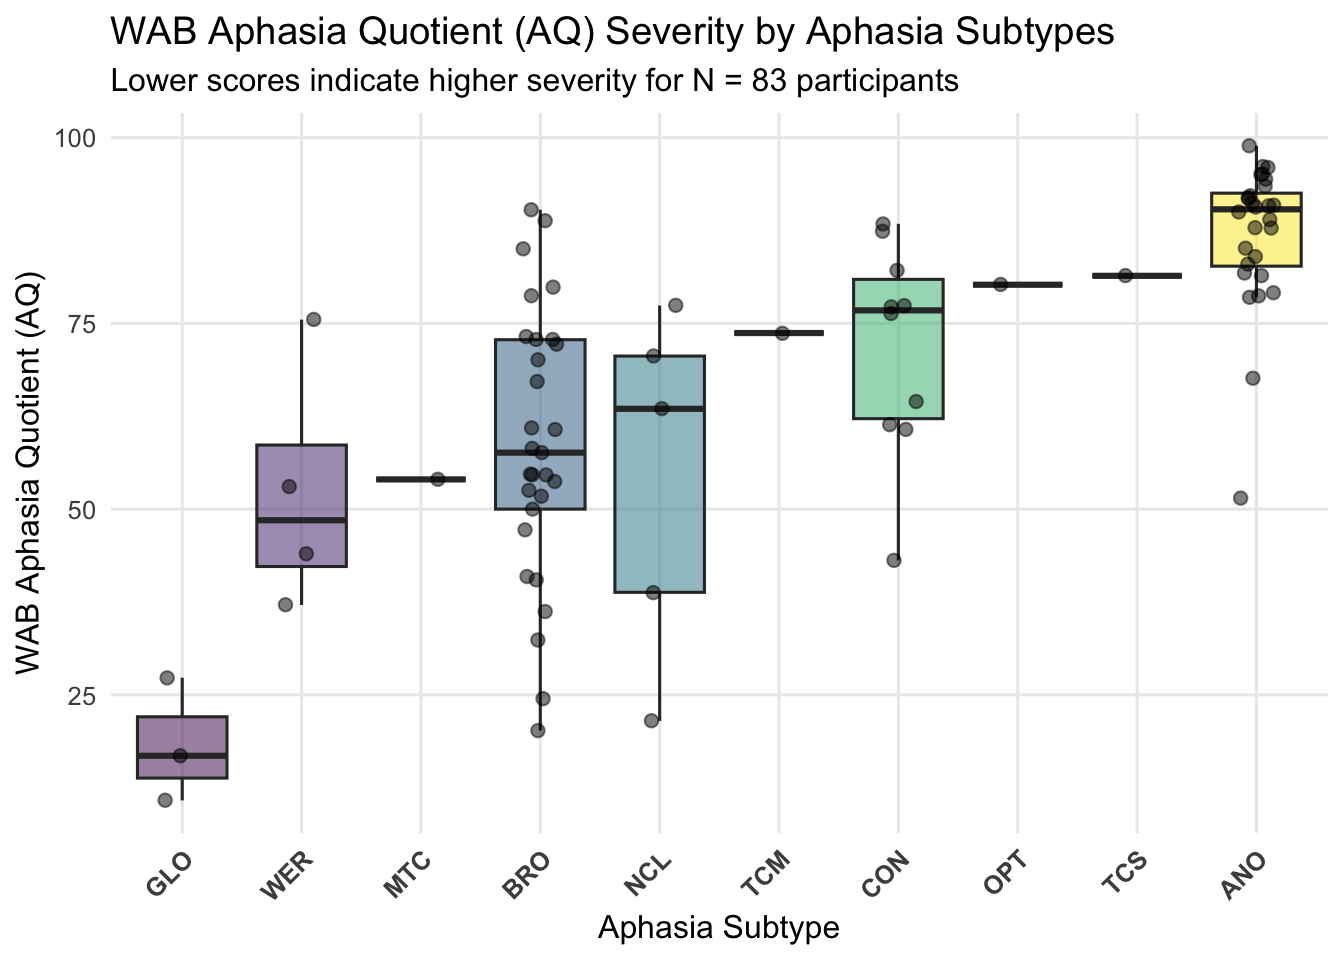
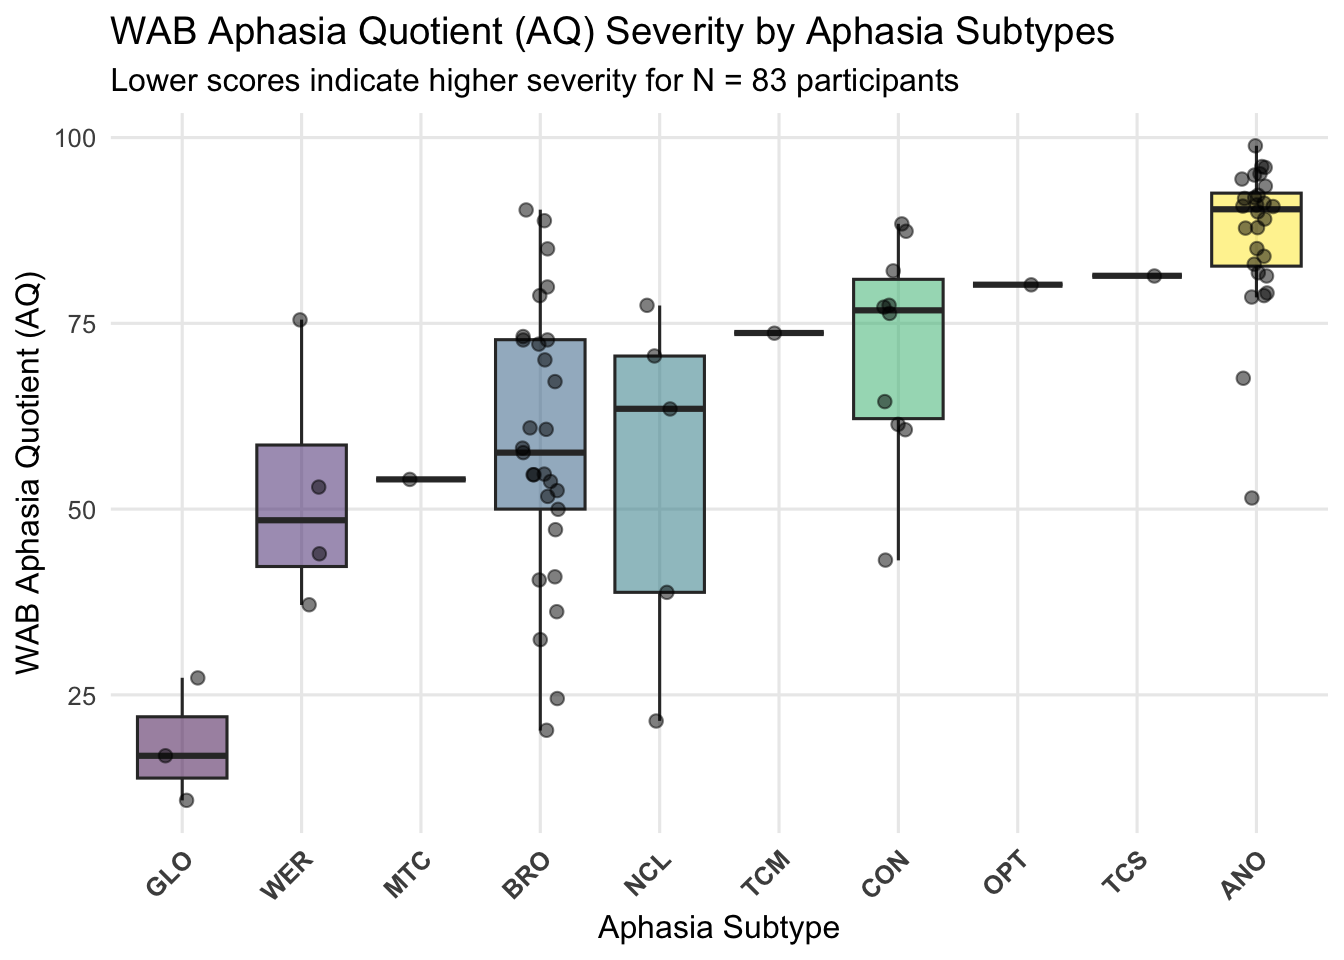
updating fp2 submission - attempt 3
just warning/message fixes

diff --git a/fp2_yeshe.html b/fp2_yeshe.html
@@ -21,6 +21,41 @@ ul.task-list li input[type="checkbox"] {
   margin: 0 0.8em 0.2em -1em; /* quarto-specific, see https://github.com/quarto-dev/quarto-cli/issues/4556 */ 
   vertical-align: middle;
 }
+/* CSS for syntax highlighting */
+html { -webkit-text-size-adjust: 100%; }
+pre > code.sourceCode { white-space: pre; position: relative; }
+pre > code.sourceCode > span { display: inline-block; line-height: 1.25; }
+pre > code.sourceCode > span:empty { height: 1.2em; }
+.sourceCode { overflow: visible; }
+code.sourceCode > span { color: inherit; text-decoration: inherit; }
+div.sourceCode { margin: 1em 0; }
+pre.sourceCode { margin: 0; }
+@media screen {
+div.sourceCode { overflow: auto; }
+}
+@media print {
+pre > code.sourceCode { white-space: pre-wrap; }
+pre > code.sourceCode > span { text-indent: -5em; padding-left: 5em; }
+}
+pre.numberSource code
+  { counter-reset: source-line 0; }
+pre.numberSource code > span
+  { position: relative; left: -4em; counter-increment: source-line; }
+pre.numberSource code > span > a:first-child::before
+  { content: counter(source-line);
+    position: relative; left: -1em; text-align: right; vertical-align: baseline;
+    border: none; display: inline-block;
+    -webkit-touch-callout: none; -webkit-user-select: none;
+    -khtml-user-select: none; -moz-user-select: none;
+    -ms-user-select: none; user-select: none;
+    padding: 0 4px; width: 4em;
+  }
+pre.numberSource { margin-left: 3em;  padding-left: 4px; }
+div.sourceCode
+  {   }
+@media screen {
+pre > code.sourceCode > span > a:first-child::before { text-decoration: underline; }
+}
 </style>
 
 
@@ -71,9 +106,62 @@ ul.task-list li input[type="checkbox"] {
 </header>
 
 
+<div class="cell">
+<div class="code-copy-outer-scaffold"><div class="sourceCode cell-code" id="cb1"><pre class="sourceCode r code-with-copy"><code class="sourceCode r"><span id="cb1-1"><a href="#cb1-1" aria-hidden="true" tabindex="-1"></a><span class="co"># load in packages and files</span></span>
+<span id="cb1-2"><a href="#cb1-2" aria-hidden="true" tabindex="-1"></a><span class="fu">library</span>(readxl)</span>
+<span id="cb1-3"><a href="#cb1-3" aria-hidden="true" tabindex="-1"></a><span class="fu">library</span>(tidyverse)</span>
+<span id="cb1-4"><a href="#cb1-4" aria-hidden="true" tabindex="-1"></a><span class="fu">library</span>(dplyr)</span>
+<span id="cb1-5"><a href="#cb1-5" aria-hidden="true" tabindex="-1"></a><span class="fu">library</span>(ggplot2)</span>
+<span id="cb1-6"><a href="#cb1-6" aria-hidden="true" tabindex="-1"></a><span class="fu">library</span>(stringr)</span>
+<span id="cb1-7"><a href="#cb1-7" aria-hidden="true" tabindex="-1"></a></span>
+<span id="cb1-8"><a href="#cb1-8" aria-hidden="true" tabindex="-1"></a><span class="co"># load in datasets</span></span>
+<span id="cb1-9"><a href="#cb1-9" aria-hidden="true" tabindex="-1"></a>demo_data <span class="ot">&lt;-</span> <span class="fu">read_excel</span>(<span class="st">"demo-data.xlsx"</span>, <span class="at">sheet =</span> <span class="st">"Time 1"</span>)</span>
+<span id="cb1-10"><a href="#cb1-10" aria-hidden="true" tabindex="-1"></a>eng_results <span class="ot">&lt;-</span> <span class="fu">read_excel</span>(<span class="st">"english-results-data.xlsx"</span>, <span class="at">sheet =</span> <span class="st">"Time 1"</span>)</span></code></pre></div><button title="Copy to Clipboard" class="code-copy-button"><i class="bi"></i></button></div>
+</div>
+<div class="cell">
+<div class="code-copy-outer-scaffold"><div class="sourceCode cell-code" id="cb2"><pre class="sourceCode r code-with-copy"><code class="sourceCode r"><span id="cb2-1"><a href="#cb2-1" aria-hidden="true" tabindex="-1"></a><span class="co"># clean demo data</span></span>
+<span id="cb2-2"><a href="#cb2-2" aria-hidden="true" tabindex="-1"></a>demo_clean <span class="ot">&lt;-</span> demo_data <span class="sc">%&gt;%</span></span>
+<span id="cb2-3"><a href="#cb2-3" aria-hidden="true" tabindex="-1"></a>  <span class="fu">rename</span>(</span>
+<span id="cb2-4"><a href="#cb2-4" aria-hidden="true" tabindex="-1"></a>    <span class="at">aphasia_type   =</span> <span class="st">`</span><span class="at">Aphasia Type --Clin Impression -- Boston</span><span class="st">`</span>,</span>
+<span id="cb2-5"><a href="#cb2-5" aria-hidden="true" tabindex="-1"></a>    <span class="at">aphasia_cat    =</span> <span class="st">`</span><span class="at">Aphasia Category -- Clin Impression</span><span class="st">`</span>,</span>
+<span id="cb2-6"><a href="#cb2-6" aria-hidden="true" tabindex="-1"></a>    <span class="at">lesion_side    =</span> <span class="st">`</span><span class="at">Lesion Side</span><span class="st">`</span>,</span>
+<span id="cb2-7"><a href="#cb2-7" aria-hidden="true" tabindex="-1"></a>    <span class="at">lesion_loc_raw =</span> <span class="st">`</span><span class="at">Lesion Location</span><span class="st">`</span></span>
+<span id="cb2-8"><a href="#cb2-8" aria-hidden="true" tabindex="-1"></a>  ) <span class="sc">%&gt;%</span></span>
+<span id="cb2-9"><a href="#cb2-9" aria-hidden="true" tabindex="-1"></a>  <span class="fu">filter</span>(<span class="sc">!</span><span class="fu">is.na</span>(lesion_loc_raw), <span class="sc">!</span>lesion_loc_raw <span class="sc">%in%</span> <span class="fu">c</span>(<span class="st">"U"</span>, <span class="st">"NA"</span>, <span class="st">"unavailable"</span>, <span class="st">"not applicable"</span>, <span class="st">""</span>)) <span class="sc">%&gt;%</span></span>
+<span id="cb2-10"><a href="#cb2-10" aria-hidden="true" tabindex="-1"></a>  <span class="fu">filter</span>(<span class="sc">!</span><span class="fu">is.na</span>(aphasia_type), <span class="sc">!</span>aphasia_type <span class="sc">%in%</span> <span class="fu">c</span>(<span class="st">"U"</span>, <span class="st">"NA"</span>, <span class="st">"unavailable"</span>, <span class="st">"not applicable"</span>, <span class="st">"non-classifiable"</span>))</span>
+<span id="cb2-11"><a href="#cb2-11" aria-hidden="true" tabindex="-1"></a></span>
+<span id="cb2-12"><a href="#cb2-12" aria-hidden="true" tabindex="-1"></a></span>
+<span id="cb2-13"><a href="#cb2-13" aria-hidden="true" tabindex="-1"></a><span class="co"># clean results data</span></span>
+<span id="cb2-14"><a href="#cb2-14" aria-hidden="true" tabindex="-1"></a>eng_clean <span class="ot">&lt;-</span> eng_results <span class="sc">%&gt;%</span></span>
+<span id="cb2-15"><a href="#cb2-15" aria-hidden="true" tabindex="-1"></a>  <span class="fu">rename</span>(<span class="at">wab_aq         =</span> <span class="st">`</span><span class="at">WAB         AQ</span><span class="sc">\r\n</span><span class="at">Note: for Baycrest and NEURAL corpora, WAB scores are from Bedside WAB</span><span class="st">`</span>) <span class="sc">%&gt;%</span></span>
+<span id="cb2-16"><a href="#cb2-16" aria-hidden="true" tabindex="-1"></a>  <span class="fu">mutate</span>(<span class="at">wab_aq =</span> <span class="fu">as.numeric</span>(wab_aq)) <span class="sc">%&gt;%</span></span>
+<span id="cb2-17"><a href="#cb2-17" aria-hidden="true" tabindex="-1"></a>  <span class="fu">filter</span>(<span class="sc">!</span><span class="fu">is.na</span>(wab_aq))</span>
+<span id="cb2-18"><a href="#cb2-18" aria-hidden="true" tabindex="-1"></a></span>
+<span id="cb2-19"><a href="#cb2-19" aria-hidden="true" tabindex="-1"></a><span class="co"># merge demo &amp; results datasets</span></span>
+<span id="cb2-20"><a href="#cb2-20" aria-hidden="true" tabindex="-1"></a>demo_results_merged <span class="ot">&lt;-</span> demo_clean <span class="sc">%&gt;%</span></span>
+<span id="cb2-21"><a href="#cb2-21" aria-hidden="true" tabindex="-1"></a>  <span class="fu">inner_join</span>(eng_clean, <span class="at">by =</span> <span class="st">"Participant ID"</span>) <span class="sc">%&gt;%</span> </span>
+<span id="cb2-22"><a href="#cb2-22" aria-hidden="true" tabindex="-1"></a>  <span class="fu">mutate</span>(<span class="at">aphasia_type =</span> <span class="fu">fct_reorder</span>(aphasia_type, wab_aq, <span class="at">.fun =</span> median, <span class="at">na.rm =</span> <span class="cn">TRUE</span>))</span></code></pre></div><button title="Copy to Clipboard" class="code-copy-button"><i class="bi"></i></button></div>
+</div>
 <section id="visuals" class="level3">
 <h3 class="anchored" data-anchor-id="visuals">Visuals</h3>
 <div class="cell">
+<div class="code-copy-outer-scaffold"><div class="sourceCode cell-code" id="cb3"><pre class="sourceCode r code-with-copy"><code class="sourceCode r"><span id="cb3-1"><a href="#cb3-1" aria-hidden="true" tabindex="-1"></a><span class="fu">ggplot</span>(demo_results_merged, <span class="fu">aes</span>(<span class="at">x =</span> aphasia_type, <span class="at">y =</span> wab_aq, <span class="at">fill =</span> aphasia_type)) <span class="sc">+</span></span>
+<span id="cb3-2"><a href="#cb3-2" aria-hidden="true" tabindex="-1"></a>  <span class="fu">geom_boxplot</span>(<span class="at">alpha =</span> <span class="fl">0.5</span>, <span class="at">outlier.shape =</span> <span class="cn">NA</span>) <span class="sc">+</span></span>
+<span id="cb3-3"><a href="#cb3-3" aria-hidden="true" tabindex="-1"></a>  <span class="fu">geom_jitter</span>(<span class="at">width =</span> <span class="fl">0.15</span>, <span class="at">alpha =</span> <span class="fl">0.5</span>, <span class="at">size =</span> <span class="dv">2</span>) <span class="sc">+</span></span>
+<span id="cb3-4"><a href="#cb3-4" aria-hidden="true" tabindex="-1"></a>  <span class="fu">theme_minimal</span>(<span class="at">base_size =</span> <span class="dv">12</span>) <span class="sc">+</span></span>
+<span id="cb3-5"><a href="#cb3-5" aria-hidden="true" tabindex="-1"></a>  <span class="fu">scale_fill_viridis_d</span>(<span class="at">option =</span> <span class="st">"viridis"</span>) <span class="sc">+</span> </span>
+<span id="cb3-6"><a href="#cb3-6" aria-hidden="true" tabindex="-1"></a>  <span class="fu">labs</span>(</span>
+<span id="cb3-7"><a href="#cb3-7" aria-hidden="true" tabindex="-1"></a>    <span class="at">title =</span> <span class="st">"WAB Aphasia Quotient (AQ) Severity by Aphasia Subtypes"</span>,</span>
+<span id="cb3-8"><a href="#cb3-8" aria-hidden="true" tabindex="-1"></a>    <span class="at">subtitle =</span> <span class="fu">paste0</span>(<span class="st">"Lower scores indicate higher severity for "</span>, <span class="st">"N = "</span>, <span class="fu">nrow</span>(demo_results_merged), <span class="st">" participants"</span>),</span>
+<span id="cb3-9"><a href="#cb3-9" aria-hidden="true" tabindex="-1"></a>    <span class="at">x =</span> <span class="st">"Aphasia Subtype"</span>,</span>
+<span id="cb3-10"><a href="#cb3-10" aria-hidden="true" tabindex="-1"></a>    <span class="at">y =</span> <span class="st">"WAB Aphasia Quotient (AQ)"</span>,</span>
+<span id="cb3-11"><a href="#cb3-11" aria-hidden="true" tabindex="-1"></a>    <span class="at">fill =</span> <span class="st">"Aphasia Type"</span></span>
+<span id="cb3-12"><a href="#cb3-12" aria-hidden="true" tabindex="-1"></a>  ) <span class="sc">+</span></span>
+<span id="cb3-13"><a href="#cb3-13" aria-hidden="true" tabindex="-1"></a>  <span class="fu">theme</span>(</span>
+<span id="cb3-14"><a href="#cb3-14" aria-hidden="true" tabindex="-1"></a>    <span class="at">legend.position =</span> <span class="st">"none"</span>,</span>
+<span id="cb3-15"><a href="#cb3-15" aria-hidden="true" tabindex="-1"></a>    <span class="at">axis.text.x =</span> <span class="fu">element_text</span>(<span class="at">angle =</span> <span class="dv">45</span>, <span class="at">hjust =</span> <span class="dv">1</span>, <span class="at">face =</span> <span class="st">"bold"</span>),</span>
+<span id="cb3-16"><a href="#cb3-16" aria-hidden="true" tabindex="-1"></a>    <span class="at">panel.grid.minor =</span> <span class="fu">element_blank</span>()</span>
+<span id="cb3-17"><a href="#cb3-17" aria-hidden="true" tabindex="-1"></a>  )</span></code></pre></div><button title="Copy to Clipboard" class="code-copy-button"><i class="bi"></i></button></div>
 <div class="cell-output-display">
 <div class="quarto-figure quarto-figure-center">
 <figure class="figure">
